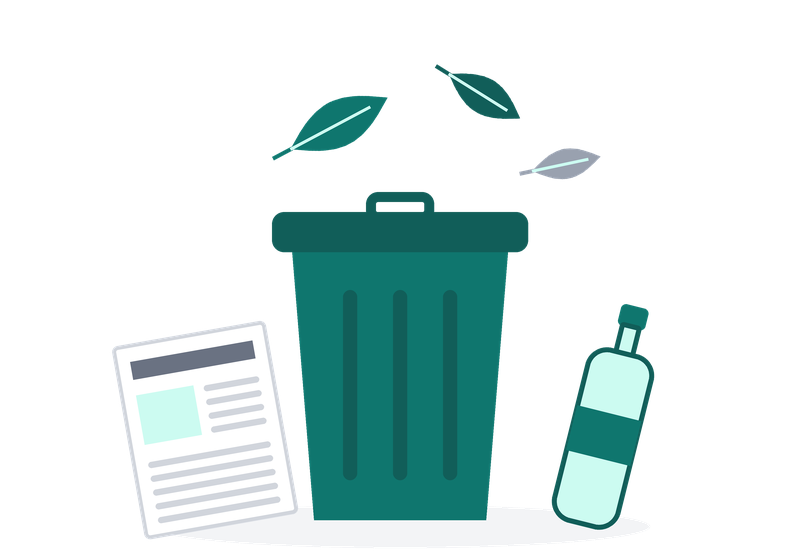
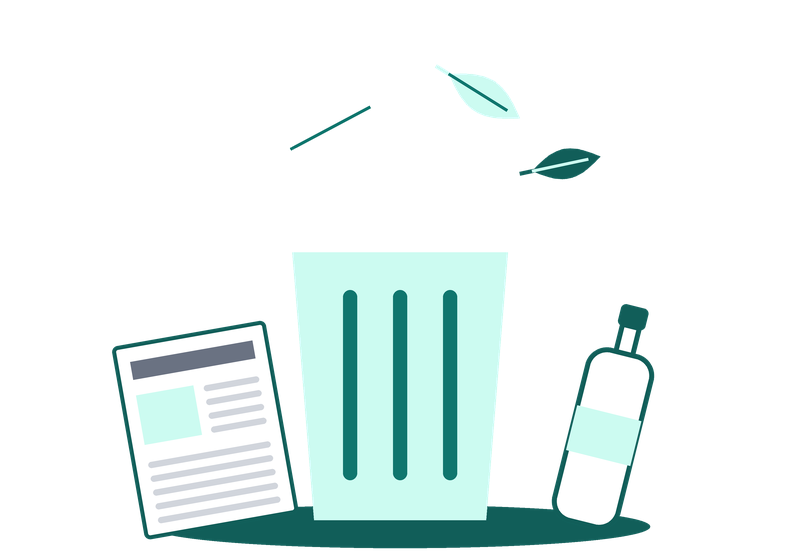
feat: ubah Welcome menjadi halaman pembuka berlatar teal

diff --git a/mobile/src/app/welcome.tsx b/mobile/src/app/welcome.tsx
@@ -1,58 +1,72 @@
 import { Image } from 'expo-image';
 import { useRouter } from 'expo-router';
 import { StyleSheet, Text, View } from 'react-native';
-import { SafeAreaView } from 'react-native-safe-area-context';
+import { useSafeAreaInsets } from 'react-native-safe-area-context';
 
 import { Button } from '../components/Button';
+import { FocusAwareStatusBar } from '../components/FocusAwareStatusBar';
 import { colors, fonts } from '../theme';
 
-// Original illustration drawn by docs/welcome_illustration.py.
+// Original illustration drawn by docs/welcome_illustration.py, in colors meant for a teal background.
 const illustration = require('../../assets/welcome.png');
 
 export default function WelcomeScreen() {
   const router = useRouter();
+  const insets = useSafeAreaInsets();
 
   return (
-    <SafeAreaView style={styles.screen}>
-      <View style={styles.illustrationArea}>
+    <View style={styles.screen}>
+      <FocusAwareStatusBar style="light" />
+
+      <View style={[styles.hero, { paddingTop: insets.top + 16 }]}>
         <Image source={illustration} style={styles.illustration} contentFit="contain" accessibilityIgnoresInvertColors />
       </View>
 
-      <View style={styles.body}>
+      {/* The white sheet overlaps the teal area a little, so its rounded corners show against it. */}
+      <View style={[styles.sheet, { paddingBottom: insets.bottom + 24 }]}>
         <View>
           <Text style={styles.title}>Laporkan tumpukan sampah di sekitar Anda</Text>
           <Text style={styles.description}>Kirim foto dan lokasi GPS, kategori sampah dideteksi otomatis.</Text>
         </View>
 
         <View style={styles.actions}>
-          <Button title="Masuk" onPress={() => router.push('/login')} />
-          <Button title="Daftar" variant="secondary" onPress={() => router.push('/register')} />
+          <Button title="Mulai" onPress={() => router.push('/how-it-works')} />
+          <Button title="Saya sudah punya akun" variant="secondary" onPress={() => router.push('/login')} />
         </View>
       </View>
-    </SafeAreaView>
+    </View>
   );
 }
+
+const SHEET_RADIUS = 24;
 
 const styles = StyleSheet.create({
   screen: {
     flex: 1,
-    backgroundColor: colors.white,
+    backgroundColor: colors.accent,
   },
-  illustrationArea: {
-    flex: 1,
+  hero: {
+    flex: 55,
     alignItems: 'center',
     justifyContent: 'center',
     paddingHorizontal: 24,
+    paddingBottom: SHEET_RADIUS,
   },
   illustration: {
     width: '100%',
     // Same ratio as the 800 x 560 source image.
     aspectRatio: 800 / 560,
   },
-  body: {
-    gap: 32,
+  sheet: {
+    flex: 45,
+    justifyContent: 'space-between',
+    gap: 24,
+    marginTop: -SHEET_RADIUS,
     paddingHorizontal: 24,
-    paddingBottom: 24,
+    paddingTop: 28,
+    backgroundColor: colors.white,
+    borderTopLeftRadius: SHEET_RADIUS,
+    borderTopRightRadius: SHEET_RADIUS,
   },
   title: {
     fontFamily: fonts.semibold,

diff --git a/docs/welcome_illustration.py b/docs/welcome_illustration.py
@@ -1,5 +1,8 @@
-"""Draws the Welcome screen illustration (mobile/assets/welcome.png): a bin with a leaf, a plastic bottle
-and a newspaper around it, flat style, teal and gray, transparent background.
+"""Draws the Welcome illustration (mobile/assets/welcome.png): a bin with leaves, a plastic bottle and a
+newspaper around it, flat style, transparent background.
+
+It is shown on the teal (#0F766E) blocks of the Welcome screen and the Beranda banner, so the shapes use
+white and light teal with dark teal details; teal shapes would disappear into that background.
 
 Needs Pillow, which the training venv already has:
 
@@ -20,9 +23,7 @@ TEAL = "#0F766E"
 TEAL_DARK = "#115E59"
 TEAL_LIGHT = "#CCFBF1"
 WHITE = "#FFFFFF"
-GRAY100 = "#F3F4F6"
 GRAY300 = "#D1D5DC"
-GRAY400 = "#99A1AF"
 GRAY500 = "#6A7282"
 
 
@@ -38,7 +39,7 @@ def paste_rotated(canvas, layer, center, angle):
     canvas.alpha_composite(rotated, (x - rotated.width // 2, y - rotated.height // 2))
 
 
-def leaf(length, width, color):
+def leaf(length, width, color, vein):
     stalk = length * 0.18
     layer = Image.new("RGBA", tuple(s(length + stalk, width)), (0, 0, 0, 0))
     draw = ImageDraw.Draw(layer)
@@ -50,7 +51,7 @@ def leaf(length, width, color):
     bottom = [(x, 2 * middle - y) for x, y in reversed(top)]
     draw.polygon([tuple(s(x, y)) for x, y in top + bottom], fill=color)
     # Main vein from the stalk to near the tip.
-    draw.line(s(stalk, middle, stalk + length * 0.82, middle), fill=TEAL_LIGHT, width=s(3)[0])
+    draw.line(s(stalk, middle, stalk + length * 0.82, middle), fill=vein, width=s(3)[0])
     return layer
 
 
@@ -58,17 +59,17 @@ def bottle():
     layer = Image.new("RGBA", tuple(s(90, 230)), (0, 0, 0, 0))
     draw = ImageDraw.Draw(layer)
     outline = s(5)[0]
-    draw.rounded_rectangle(s(31, 0, 59, 22), radius=s(5)[0], fill=TEAL)  # cap
-    draw.rounded_rectangle(s(34, 18, 56, 52), radius=s(4)[0], fill=TEAL_LIGHT, outline=TEAL_DARK, width=outline)  # neck
-    draw.rounded_rectangle(s(10, 46, 80, 226), radius=s(22)[0], fill=TEAL_LIGHT, outline=TEAL_DARK, width=outline)  # body
-    draw.rectangle(s(12, 110, 78, 156), fill=TEAL)  # label band
+    draw.rounded_rectangle(s(31, 0, 59, 22), radius=s(5)[0], fill=TEAL_DARK)  # cap
+    draw.rounded_rectangle(s(34, 18, 56, 52), radius=s(4)[0], fill=WHITE, outline=TEAL_DARK, width=outline)  # neck
+    draw.rounded_rectangle(s(10, 46, 80, 226), radius=s(22)[0], fill=WHITE, outline=TEAL_DARK, width=outline)  # body
+    draw.rectangle(s(12, 110, 78, 156), fill=TEAL_LIGHT)  # label band
     return layer
 
 
 def newspaper():
     layer = Image.new("RGBA", tuple(s(160, 200)), (0, 0, 0, 0))
     draw = ImageDraw.Draw(layer)
-    draw.rounded_rectangle(s(2, 2, 158, 198), radius=s(6)[0], fill=WHITE, outline=GRAY300, width=s(4)[0])
+    draw.rounded_rectangle(s(2, 2, 158, 198), radius=s(6)[0], fill=WHITE, outline=TEAL_DARK, width=s(4)[0])
     draw.rectangle(s(18, 20, 142, 38), fill=GRAY500)  # masthead
     draw.rectangle(s(18, 54, 76, 104), fill=TEAL_LIGHT)  # photo
     for y in (56, 70, 84, 98):
@@ -82,21 +83,21 @@ def main():
     canvas = Image.new("RGBA", tuple(s(WIDTH, HEIGHT)), (0, 0, 0, 0))
     draw = ImageDraw.Draw(canvas)
 
-    # Ground shadow.
-    draw.ellipse(s(150, 505, 650, 548), fill=GRAY100)
+    # Ground shadow, a darker teal than the background it sits on.
+    draw.ellipse(s(150, 505, 650, 548), fill=TEAL_DARK)
 
     # Bin: tapered body, three grooves, lid and handle.
-    draw.polygon([tuple(s(292, 250)), tuple(s(508, 250)), tuple(s(486, 520)), tuple(s(314, 520))], fill=TEAL)
+    draw.polygon([tuple(s(292, 250)), tuple(s(508, 250)), tuple(s(486, 520)), tuple(s(314, 520))], fill=TEAL_LIGHT)
     for x in (350, 400, 450):
-        draw.rounded_rectangle(s(x - 7, 290, x + 7, 480), radius=s(7)[0], fill=TEAL_DARK)
-    draw.rounded_rectangle(s(366, 192, 434, 222), radius=s(12)[0], outline=TEAL_DARK, width=s(10)[0])
-    draw.rounded_rectangle(s(272, 212, 528, 252), radius=s(12)[0], fill=TEAL_DARK)
+        draw.rounded_rectangle(s(x - 7, 290, x + 7, 480), radius=s(7)[0], fill=TEAL)
+    draw.rounded_rectangle(s(366, 192, 434, 222), radius=s(12)[0], outline=WHITE, width=s(10)[0])
+    draw.rounded_rectangle(s(272, 212, 528, 252), radius=s(12)[0], fill=WHITE)
 
     paste_rotated(canvas, newspaper(), (205, 430), 10)
     paste_rotated(canvas, bottle(), (608, 418), -14)
-    paste_rotated(canvas, leaf(110, 46, TEAL), (330, 128), 28)
-    paste_rotated(canvas, leaf(84, 36, TEAL_DARK), (478, 92), -32)
-    paste_rotated(canvas, leaf(70, 30, GRAY400), (560, 165), 12)
+    paste_rotated(canvas, leaf(110, 46, WHITE, TEAL), (330, 128), 28)
+    paste_rotated(canvas, leaf(84, 36, TEAL_LIGHT, TEAL), (478, 92), -32)
+    paste_rotated(canvas, leaf(70, 30, TEAL_DARK, TEAL_LIGHT), (560, 165), 12)
 
     canvas.resize((WIDTH, HEIGHT), Image.LANCZOS).save(OUTPUT, optimize=True)
     print(f"{OUTPUT} ({WIDTH} x {HEIGHT})")
